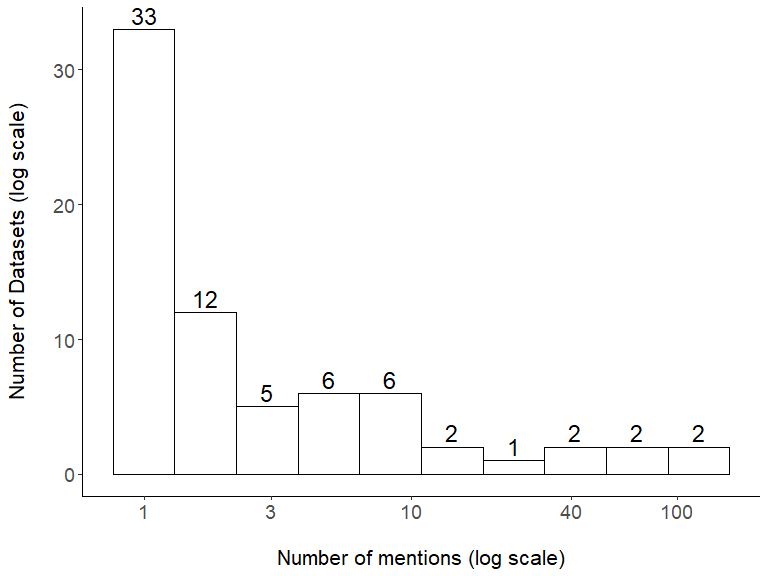
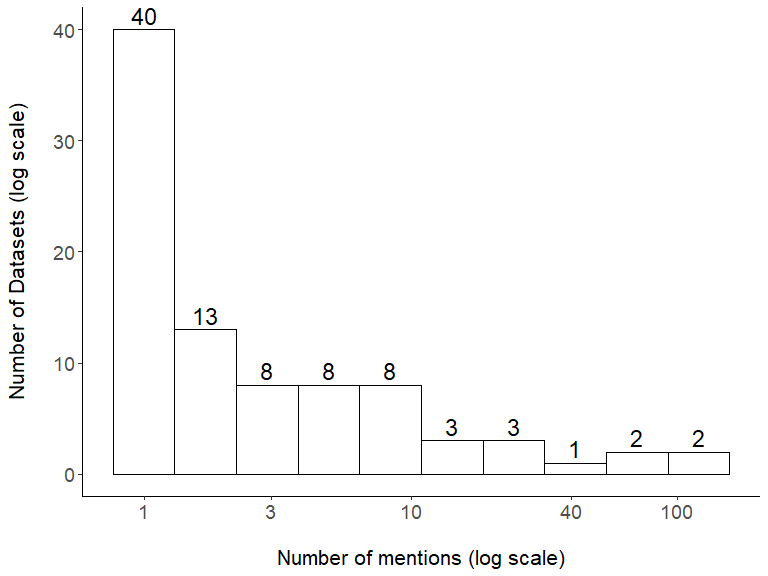
fixed plots layout, made article text font bigger and wider in the html render. next step: add a copy of the plot (in plots_prep and plots.qmd) for only data articles

diff --git a/notebooks/plots/plots_prep.html b/notebooks/plots/plots_prep.html
@@ -3276,7 +3276,7 @@ vertical-align: -.125em;
 <span id="cb4-12"><a href="#cb4-12" aria-hidden="true" tabindex="-1"></a>    <span class="at">.default =</span> data_id_merged)) <span class="sc">|&gt;</span> </span>
 <span id="cb4-13"><a href="#cb4-13" aria-hidden="true" tabindex="-1"></a>  <span class="fu">group_by</span>(data_id_merged, publication_year_dcc) <span class="sc">|&gt;</span> </span>
 <span id="cb4-14"><a href="#cb4-14" aria-hidden="true" tabindex="-1"></a>  <span class="fu">summarise</span>(<span class="at">count =</span> <span class="fu">n</span>(), <span class="at">.groups =</span> <span class="st">&quot;drop&quot;</span>) <span class="sc">|&gt;</span> </span>
-<span id="cb4-15"><a href="#cb4-15" aria-hidden="true" tabindex="-1"></a>  dplyr<span class="sc">::</span><span class="fu">filter</span>(publication_year_dcc <span class="sc">!=</span> <span class="st">&quot;2023&quot;</span>)</span>
+<span id="cb4-15"><a href="#cb4-15" aria-hidden="true" tabindex="-1"></a>  dplyr<span class="sc">::</span><span class="fu">filter</span>(<span class="sc">!</span>publication_year_dcc <span class="sc">%in%</span> <span class="fu">c</span>(<span class="st">&quot;2023&quot;</span>, <span class="st">&quot;2024&quot;</span>))</span>
 <span id="cb4-16"><a href="#cb4-16" aria-hidden="true" tabindex="-1"></a></span>
 <span id="cb4-17"><a href="#cb4-17" aria-hidden="true" tabindex="-1"></a><span class="co"># save as RData</span></span>
 <span id="cb4-18"><a href="#cb4-18" aria-hidden="true" tabindex="-1"></a><span class="fu">save_cr</span>(year_dcc_dt_all_for_plot_agg, <span class="at">file =</span> <span class="fu">file.path</span>(<span class="fu">here</span>(<span class="st">&quot;data&quot;</span>,</span>
@@ -3301,7 +3301,7 @@ vertical-align: -.125em;
 <span id="cb5-12"><a href="#cb5-12" aria-hidden="true" tabindex="-1"></a>                            <span class="at">.default =</span> <span class="st">&quot;DOI&quot;</span>),</span>
 <span id="cb5-13"><a href="#cb5-13" aria-hidden="true" tabindex="-1"></a>         <span class="at">target =</span> <span class="fu">case_when</span>(data_access <span class="sc">==</span> <span class="st">&quot;yes&quot;</span> <span class="sc">~</span> <span class="st">&quot;Full Access&quot;</span>,</span>
 <span id="cb5-14"><a href="#cb5-14" aria-hidden="true" tabindex="-1"></a>                            data_access <span class="sc">==</span> <span class="st">&quot;restricted&quot;</span> <span class="sc">~</span> <span class="st">&quot;Restricted Access&quot;</span>,</span>
-<span id="cb5-15"><a href="#cb5-15" aria-hidden="true" tabindex="-1"></a>                            <span class="at">.default =</span> <span class="st">&quot;access not checked yet&quot;</span>)) <span class="sc">|&gt;</span></span>
+<span id="cb5-15"><a href="#cb5-15" aria-hidden="true" tabindex="-1"></a>                            <span class="at">.default =</span> <span class="st">&quot;not checked yet&quot;</span>)) <span class="sc">|&gt;</span></span>
 <span id="cb5-16"><a href="#cb5-16" aria-hidden="true" tabindex="-1"></a>  <span class="fu">count</span>(source, target) <span class="sc">|&gt;</span></span>
 <span id="cb5-17"><a href="#cb5-17" aria-hidden="true" tabindex="-1"></a>  <span class="fu">rename</span>(<span class="at">value =</span> n) <span class="sc">|&gt;</span></span>
 <span id="cb5-18"><a href="#cb5-18" aria-hidden="true" tabindex="-1"></a>  <span class="fu">as.data.frame</span>()</span>
@@ -3309,7 +3309,7 @@ vertical-align: -.125em;
 <span id="cb5-20"><a href="#cb5-20" aria-hidden="true" tabindex="-1"></a>links_access_rep <span class="ot">&lt;-</span> dcc_charite_for_sankey <span class="sc">|&gt;</span></span>
 <span id="cb5-21"><a href="#cb5-21" aria-hidden="true" tabindex="-1"></a>  <span class="fu">mutate</span>(<span class="at">source =</span> <span class="fu">case_when</span>(data_access <span class="sc">==</span> <span class="st">&quot;yes&quot;</span> <span class="sc">~</span> <span class="st">&quot;Full Access&quot;</span>,</span>
 <span id="cb5-22"><a href="#cb5-22" aria-hidden="true" tabindex="-1"></a>                            data_access <span class="sc">==</span> <span class="st">&quot;restricted&quot;</span> <span class="sc">~</span> <span class="st">&quot;Restricted Access&quot;</span>,</span>
-<span id="cb5-23"><a href="#cb5-23" aria-hidden="true" tabindex="-1"></a>                            <span class="at">.default =</span> <span class="st">&quot;access not checked yet&quot;</span>),</span>
+<span id="cb5-23"><a href="#cb5-23" aria-hidden="true" tabindex="-1"></a>                            <span class="at">.default =</span> <span class="st">&quot;not checked yet&quot;</span>),</span>
 <span id="cb5-24"><a href="#cb5-24" aria-hidden="true" tabindex="-1"></a>         <span class="at">target =</span> <span class="fu">case_when</span>(</span>
 <span id="cb5-25"><a href="#cb5-25" aria-hidden="true" tabindex="-1"></a>           repository <span class="sc">==</span> <span class="st">&quot;ncbi dbgap (database of genotypes and phenotypesgenotypes and phenotypes)&quot;</span> <span class="sc">~</span> <span class="st">&quot;NCBI dbGaP&quot;</span>,</span>
 <span id="cb5-26"><a href="#cb5-26" aria-hidden="true" tabindex="-1"></a>           repository <span class="sc">==</span> <span class="st">&quot;figshare&quot;</span> <span class="sc">~</span> <span class="st">&quot;figshare&quot;</span>,</span>
@@ -3319,35 +3319,37 @@ vertical-align: -.125em;
 <span id="cb5-30"><a href="#cb5-30" aria-hidden="true" tabindex="-1"></a>           repository <span class="sc">==</span> <span class="st">&quot;ncbi reference sequence database&quot;</span> <span class="sc">~</span> <span class="st">&quot;NCBI RefSeq&quot;</span>,</span>
 <span id="cb5-31"><a href="#cb5-31" aria-hidden="true" tabindex="-1"></a>           repository <span class="sc">==</span> <span class="st">&quot;european nucleotide archive&quot;</span> <span class="sc">~</span> <span class="st">&quot;ENA&quot;</span>,</span>
 <span id="cb5-32"><a href="#cb5-32" aria-hidden="true" tabindex="-1"></a>           repository <span class="sc">==</span> <span class="st">&quot;the protein data bank&quot;</span> <span class="sc">~</span> <span class="st">&quot;PDB&quot;</span>,</span>
-<span id="cb5-33"><a href="#cb5-33" aria-hidden="true" tabindex="-1"></a>           <span class="at">.default =</span> repository)) <span class="sc">|&gt;</span></span>
-<span id="cb5-34"><a href="#cb5-34" aria-hidden="true" tabindex="-1"></a>  <span class="fu">count</span>(source, target) <span class="sc">|&gt;</span></span>
-<span id="cb5-35"><a href="#cb5-35" aria-hidden="true" tabindex="-1"></a>  <span class="fu">rename</span>(<span class="at">value =</span> n) <span class="sc">|&gt;</span></span>
-<span id="cb5-36"><a href="#cb5-36" aria-hidden="true" tabindex="-1"></a>  <span class="fu">as.data.frame</span>()</span>
-<span id="cb5-37"><a href="#cb5-37" aria-hidden="true" tabindex="-1"></a></span>
-<span id="cb5-38"><a href="#cb5-38" aria-hidden="true" tabindex="-1"></a>links_rep_covid <span class="ot">&lt;-</span> dcc_charite_for_sankey <span class="sc">|&gt;</span></span>
-<span id="cb5-39"><a href="#cb5-39" aria-hidden="true" tabindex="-1"></a>  <span class="fu">mutate</span>(<span class="at">source =</span> <span class="fu">case_when</span>(</span>
-<span id="cb5-40"><a href="#cb5-40" aria-hidden="true" tabindex="-1"></a>           repository <span class="sc">==</span> <span class="st">&quot;ncbi dbgap (database of genotypes and phenotypesgenotypes and phenotypes)&quot;</span> <span class="sc">~</span> <span class="st">&quot;NCBI dbGaP&quot;</span>,</span>
-<span id="cb5-41"><a href="#cb5-41" aria-hidden="true" tabindex="-1"></a>           repository <span class="sc">==</span> <span class="st">&quot;figshare&quot;</span> <span class="sc">~</span> <span class="st">&quot;figshare&quot;</span>,</span>
-<span id="cb5-42"><a href="#cb5-42" aria-hidden="true" tabindex="-1"></a>           repository <span class="sc">==</span> <span class="st">&quot;the european genome-phenome archive(ega)&quot;</span> <span class="sc">~</span> <span class="st">&quot;EGA&quot;</span>,</span>
-<span id="cb5-43"><a href="#cb5-43" aria-hidden="true" tabindex="-1"></a>           repository <span class="sc">==</span> <span class="st">&quot;gene expression omnibus (geo)&quot;</span> <span class="sc">~</span> <span class="st">&quot;GEO&quot;</span>,</span>
-<span id="cb5-44"><a href="#cb5-44" aria-hidden="true" tabindex="-1"></a>           repository <span class="sc">==</span> <span class="st">&quot;pride proteomics identification database&quot;</span> <span class="sc">~</span> <span class="st">&quot;PRIDE&quot;</span>,</span>
-<span id="cb5-45"><a href="#cb5-45" aria-hidden="true" tabindex="-1"></a>           repository <span class="sc">==</span> <span class="st">&quot;ncbi reference sequence database&quot;</span> <span class="sc">~</span> <span class="st">&quot;NCBI RefSeq&quot;</span>,</span>
-<span id="cb5-46"><a href="#cb5-46" aria-hidden="true" tabindex="-1"></a>           repository <span class="sc">==</span> <span class="st">&quot;european nucleotide archive&quot;</span> <span class="sc">~</span> <span class="st">&quot;ENA&quot;</span>,</span>
-<span id="cb5-47"><a href="#cb5-47" aria-hidden="true" tabindex="-1"></a>           repository <span class="sc">==</span> <span class="st">&quot;the protein data bank&quot;</span> <span class="sc">~</span> <span class="st">&quot;PDB&quot;</span>,</span>
-<span id="cb5-48"><a href="#cb5-48" aria-hidden="true" tabindex="-1"></a>           <span class="at">.default =</span> repository),</span>
-<span id="cb5-49"><a href="#cb5-49" aria-hidden="true" tabindex="-1"></a>         <span class="at">target =</span> <span class="fu">case_when</span>(covid_related <span class="sc">==</span> <span class="dv">1</span> <span class="sc">~</span> <span class="st">&quot;Covid Related&quot;</span>,</span>
-<span id="cb5-50"><a href="#cb5-50" aria-hidden="true" tabindex="-1"></a>                            covid_related <span class="sc">==</span> <span class="dv">0</span> <span class="sc">~</span> <span class="st">&quot;Not Covid Related&quot;</span>,</span>
-<span id="cb5-51"><a href="#cb5-51" aria-hidden="true" tabindex="-1"></a>                            <span class="at">.default =</span> <span class="st">&quot;covid not checked yet&quot;</span>)) <span class="sc">|&gt;</span></span>
-<span id="cb5-52"><a href="#cb5-52" aria-hidden="true" tabindex="-1"></a>  <span class="fu">count</span>(source, target) <span class="sc">|&gt;</span></span>
-<span id="cb5-53"><a href="#cb5-53" aria-hidden="true" tabindex="-1"></a>  <span class="fu">rename</span>(<span class="at">value =</span> n) <span class="sc">|&gt;</span></span>
-<span id="cb5-54"><a href="#cb5-54" aria-hidden="true" tabindex="-1"></a>  <span class="fu">as.data.frame</span>()</span>
-<span id="cb5-55"><a href="#cb5-55" aria-hidden="true" tabindex="-1"></a></span>
-<span id="cb5-56"><a href="#cb5-56" aria-hidden="true" tabindex="-1"></a>links_all <span class="ot">&lt;-</span> <span class="fu">bind_rows</span>(links_ac_access, links_access_rep, links_rep_covid)</span>
+<span id="cb5-33"><a href="#cb5-33" aria-hidden="true" tabindex="-1"></a>           repository <span class="sc">==</span> <span class="st">&quot;elsevier data repository&quot;</span> <span class="sc">~</span> <span class="st">&quot;elsevier&quot;</span>,</span>
+<span id="cb5-34"><a href="#cb5-34" aria-hidden="true" tabindex="-1"></a>           <span class="at">.default =</span> repository)) <span class="sc">|&gt;</span></span>
+<span id="cb5-35"><a href="#cb5-35" aria-hidden="true" tabindex="-1"></a>  <span class="fu">count</span>(source, target) <span class="sc">|&gt;</span></span>
+<span id="cb5-36"><a href="#cb5-36" aria-hidden="true" tabindex="-1"></a>  <span class="fu">rename</span>(<span class="at">value =</span> n) <span class="sc">|&gt;</span></span>
+<span id="cb5-37"><a href="#cb5-37" aria-hidden="true" tabindex="-1"></a>  <span class="fu">as.data.frame</span>()</span>
+<span id="cb5-38"><a href="#cb5-38" aria-hidden="true" tabindex="-1"></a></span>
+<span id="cb5-39"><a href="#cb5-39" aria-hidden="true" tabindex="-1"></a>links_rep_covid <span class="ot">&lt;-</span> dcc_charite_for_sankey <span class="sc">|&gt;</span></span>
+<span id="cb5-40"><a href="#cb5-40" aria-hidden="true" tabindex="-1"></a>  <span class="fu">mutate</span>(<span class="at">source =</span> <span class="fu">case_when</span>(</span>
+<span id="cb5-41"><a href="#cb5-41" aria-hidden="true" tabindex="-1"></a>           repository <span class="sc">==</span> <span class="st">&quot;ncbi dbgap (database of genotypes and phenotypesgenotypes and phenotypes)&quot;</span> <span class="sc">~</span> <span class="st">&quot;NCBI dbGaP&quot;</span>,</span>
+<span id="cb5-42"><a href="#cb5-42" aria-hidden="true" tabindex="-1"></a>           repository <span class="sc">==</span> <span class="st">&quot;figshare&quot;</span> <span class="sc">~</span> <span class="st">&quot;figshare&quot;</span>,</span>
+<span id="cb5-43"><a href="#cb5-43" aria-hidden="true" tabindex="-1"></a>           repository <span class="sc">==</span> <span class="st">&quot;the european genome-phenome archive(ega)&quot;</span> <span class="sc">~</span> <span class="st">&quot;EGA&quot;</span>,</span>
+<span id="cb5-44"><a href="#cb5-44" aria-hidden="true" tabindex="-1"></a>           repository <span class="sc">==</span> <span class="st">&quot;gene expression omnibus (geo)&quot;</span> <span class="sc">~</span> <span class="st">&quot;GEO&quot;</span>,</span>
+<span id="cb5-45"><a href="#cb5-45" aria-hidden="true" tabindex="-1"></a>           repository <span class="sc">==</span> <span class="st">&quot;pride proteomics identification database&quot;</span> <span class="sc">~</span> <span class="st">&quot;PRIDE&quot;</span>,</span>
+<span id="cb5-46"><a href="#cb5-46" aria-hidden="true" tabindex="-1"></a>           repository <span class="sc">==</span> <span class="st">&quot;ncbi reference sequence database&quot;</span> <span class="sc">~</span> <span class="st">&quot;NCBI RefSeq&quot;</span>,</span>
+<span id="cb5-47"><a href="#cb5-47" aria-hidden="true" tabindex="-1"></a>           repository <span class="sc">==</span> <span class="st">&quot;european nucleotide archive&quot;</span> <span class="sc">~</span> <span class="st">&quot;ENA&quot;</span>,</span>
+<span id="cb5-48"><a href="#cb5-48" aria-hidden="true" tabindex="-1"></a>           repository <span class="sc">==</span> <span class="st">&quot;the protein data bank&quot;</span> <span class="sc">~</span> <span class="st">&quot;PDB&quot;</span>,</span>
+<span id="cb5-49"><a href="#cb5-49" aria-hidden="true" tabindex="-1"></a>           repository <span class="sc">==</span> <span class="st">&quot;elsevier data repository&quot;</span> <span class="sc">~</span> <span class="st">&quot;elsevier&quot;</span>,</span>
+<span id="cb5-50"><a href="#cb5-50" aria-hidden="true" tabindex="-1"></a>           <span class="at">.default =</span> repository),</span>
+<span id="cb5-51"><a href="#cb5-51" aria-hidden="true" tabindex="-1"></a>         <span class="at">target =</span> <span class="fu">case_when</span>(covid_related <span class="sc">==</span> <span class="st">&quot;TRUE&quot;</span> <span class="sc">~</span> <span class="st">&quot;Covid Related&quot;</span>,</span>
+<span id="cb5-52"><a href="#cb5-52" aria-hidden="true" tabindex="-1"></a>                            covid_related <span class="sc">==</span> <span class="st">&quot;FALSE&quot;</span> <span class="sc">~</span> <span class="st">&quot;Not Covid Related&quot;</span>,</span>
+<span id="cb5-53"><a href="#cb5-53" aria-hidden="true" tabindex="-1"></a>                            <span class="at">.default =</span> <span class="st">&quot;covid not checked yet&quot;</span>)) <span class="sc">|&gt;</span></span>
+<span id="cb5-54"><a href="#cb5-54" aria-hidden="true" tabindex="-1"></a>  <span class="fu">count</span>(source, target) <span class="sc">|&gt;</span></span>
+<span id="cb5-55"><a href="#cb5-55" aria-hidden="true" tabindex="-1"></a>  <span class="fu">rename</span>(<span class="at">value =</span> n) <span class="sc">|&gt;</span></span>
+<span id="cb5-56"><a href="#cb5-56" aria-hidden="true" tabindex="-1"></a>  <span class="fu">as.data.frame</span>()</span>
 <span id="cb5-57"><a href="#cb5-57" aria-hidden="true" tabindex="-1"></a></span>
-<span id="cb5-58"><a href="#cb5-58" aria-hidden="true" tabindex="-1"></a><span class="co"># save as RData</span></span>
-<span id="cb5-59"><a href="#cb5-59" aria-hidden="true" tabindex="-1"></a><span class="fu">save_cr</span>(links_all, <span class="at">file =</span> <span class="fu">file.path</span>(<span class="fu">here</span>(<span class="st">&quot;data&quot;</span>,</span>
-<span id="cb5-60"><a href="#cb5-60" aria-hidden="true" tabindex="-1"></a>                                         <span class="st">&quot;tables_for_plots&quot;</span>,</span>
-<span id="cb5-61"><a href="#cb5-61" aria-hidden="true" tabindex="-1"></a>                                         <span class="st">&quot;links_all.RData&quot;</span>)))</span></code><button title="Copy to Clipboard" class="code-copy-button"><i class="bi"></i></button></pre></div>
+<span id="cb5-58"><a href="#cb5-58" aria-hidden="true" tabindex="-1"></a>links_all <span class="ot">&lt;-</span> <span class="fu">bind_rows</span>(links_ac_access, links_access_rep, links_rep_covid)</span>
+<span id="cb5-59"><a href="#cb5-59" aria-hidden="true" tabindex="-1"></a></span>
+<span id="cb5-60"><a href="#cb5-60" aria-hidden="true" tabindex="-1"></a><span class="co"># save as RData</span></span>
+<span id="cb5-61"><a href="#cb5-61" aria-hidden="true" tabindex="-1"></a><span class="fu">save_cr</span>(links_all, <span class="at">file =</span> <span class="fu">file.path</span>(<span class="fu">here</span>(<span class="st">&quot;data&quot;</span>,</span>
+<span id="cb5-62"><a href="#cb5-62" aria-hidden="true" tabindex="-1"></a>                                         <span class="st">&quot;tables_for_plots&quot;</span>,</span>
+<span id="cb5-63"><a href="#cb5-63" aria-hidden="true" tabindex="-1"></a>                                         <span class="st">&quot;links_all.RData&quot;</span>)))</span></code><button title="Copy to Clipboard" class="code-copy-button"><i class="bi"></i></button></pre></div>
 </div>
 </section>
 <section id="datasets-and-citing-papers-publication-years" class="level1">

diff --git a/data/processed/dcc_charite_joined/sankey_interactive_plot.html b/data/processed/dcc_charite_joined/sankey_interactive_plot.html
@@ -1595,9 +1595,9 @@ return function(){for(var n=0,e=0;e<t;++e)n+=Math.random();return n}},um=functio
 </head>
 <body style="background-color: white;">
 <div id="htmlwidget_container">
-  <div class="sankeyNetwork html-widget html-fill-item" id="htmlwidget-af633a7bf9485f895ff1" style="width:100%;height:338px;"></div>
+  <div class="sankeyNetwork html-widget html-fill-item" id="htmlwidget-3b6e629a5553102376de" style="width:100%;height:338px;"></div>
 </div>
-<script type="application/json" data-for="htmlwidget-af633a7bf9485f895ff1">{"x":{"links":{"source":[0,0,0,1,1,1,2,2,2,2,2,2,2,2,2,2,2,2,2,2,2,3,3,3,4,4,5,6,7,8,9,10,11,12,13,14,15,16,17,18,19,20,21],"target":[2,3,4,2,3,4,6,7,8,9,10,11,12,13,14,15,16,18,19,20,21,5,9,17,6,21,22,22,22,22,22,22,22,22,22,22,22,22,22,22,22,22,22],"value":[68,13,1,6,1,1,6,43,1,1,4,3,3,6,1,1,1,1,1,1,1,2,11,1,1,1,2,7,43,1,12,4,3,3,6,1,1,1,1,1,1,1,2]},"nodes":{"name":["Accession Number","DOI","Full Access","Restricted Access","access not checked yet","EGA","ENA","GEO","NCBI RefSeq","NCBI dbGaP","PDB","PRIDE","arrayexpress","bioproject","elsevier bv","elsevier data repository","figshare","harvard dataverse","mendeley","openneuro","uniprot","zenodo","covid not checked yet"],"group":["blue","red","yellow","green","gray","gray","gray","gray","gray","gray","gray","gray","gray","gray","gray","gray","gray","gray","gray","gray","gray","gray","white"]},"options":{"NodeID":"name","NodeGroup":"group","LinkGroup":null,"colourScale":"d3.scaleOrdinal().domain([\"blue\", \"red\", \"yellow\", \"green\", \"gray\", \"white\"]).range([\"blue\", \"red\", \"yellow\", \"green\", \"gray\", \"white\"])","fontSize":20,"fontFamily":null,"nodeWidth":15,"nodePadding":10,"units":"","margin":{"top":null,"right":null,"bottom":null,"left":null},"iterations":32,"sinksRight":false}},"evals":[],"jsHooks":[]}</script>
-<script type="application/htmlwidget-sizing" data-for="htmlwidget-af633a7bf9485f895ff1">{"viewer":{"width":450,"height":350,"padding":10,"fill":true},"browser":{"width":960,"height":500,"padding":10,"fill":true}}</script>
+<script type="application/json" data-for="htmlwidget-3b6e629a5553102376de">{"x":{"links":{"source":[0,0,0,1,1,1,2,2,2,2,2,2,2,2,2,2,2,2,2,2,2,3,3,3,4,4,5,6,6,6,7,7,7,8,9,9,10,10,11,11,12,13,13,14,15,16,17,18,19,20,21],"target":[2,3,4,2,3,4,6,7,8,9,10,11,12,13,14,15,16,18,19,20,21,5,9,17,6,21,22,23,22,24,23,22,24,22,22,24,23,22,22,24,22,22,24,24,24,23,24,24,22,24,24],"value":[68,13,1,6,1,1,6,43,1,1,4,3,3,6,1,1,1,1,1,1,1,2,11,1,1,1,2,1,2,4,4,32,7,1,5,7,2,2,2,1,3,4,2,1,1,1,1,1,1,1,2]},"nodes":{"name":["Accession Number","DOI","Full Access","Restricted Access","not checked yet","EGA","ENA","GEO","NCBI RefSeq","NCBI dbGaP","PDB","PRIDE","arrayexpress","bioproject","elsevier","elsevier bv","figshare","harvard dataverse","mendeley","openneuro","uniprot","zenodo","Not Covid Related","Covid Related","covid not checked yet"],"group":["blue","red","yellow","green","gray","gray","gray","gray","gray","gray","gray","gray","gray","gray","gray","gray","gray","gray","gray","gray","gray","gray","purple","pink","white"]},"options":{"NodeID":"name","NodeGroup":"group","LinkGroup":null,"colourScale":"d3.scaleOrdinal().domain([\"blue\", \"red\", \"yellow\", \"green\", \"gray\", \"purple\", \"pink\", \"white\"]).range([\"blue\", \"red\", \"yellow\", \"green\", \"gray\", \"purple\", \"pink\", \"white\"])","fontSize":22,"fontFamily":null,"nodeWidth":15,"nodePadding":10,"units":"","margin":{"top":null,"right":null,"bottom":null,"left":null},"iterations":32,"sinksRight":false}},"evals":[],"jsHooks":[]}</script>
+<script type="application/htmlwidget-sizing" data-for="htmlwidget-3b6e629a5553102376de">{"viewer":{"width":450,"height":350,"padding":10,"fill":true},"browser":{"width":960,"height":500,"padding":10,"fill":true}}</script>
 </body>
 </html>
